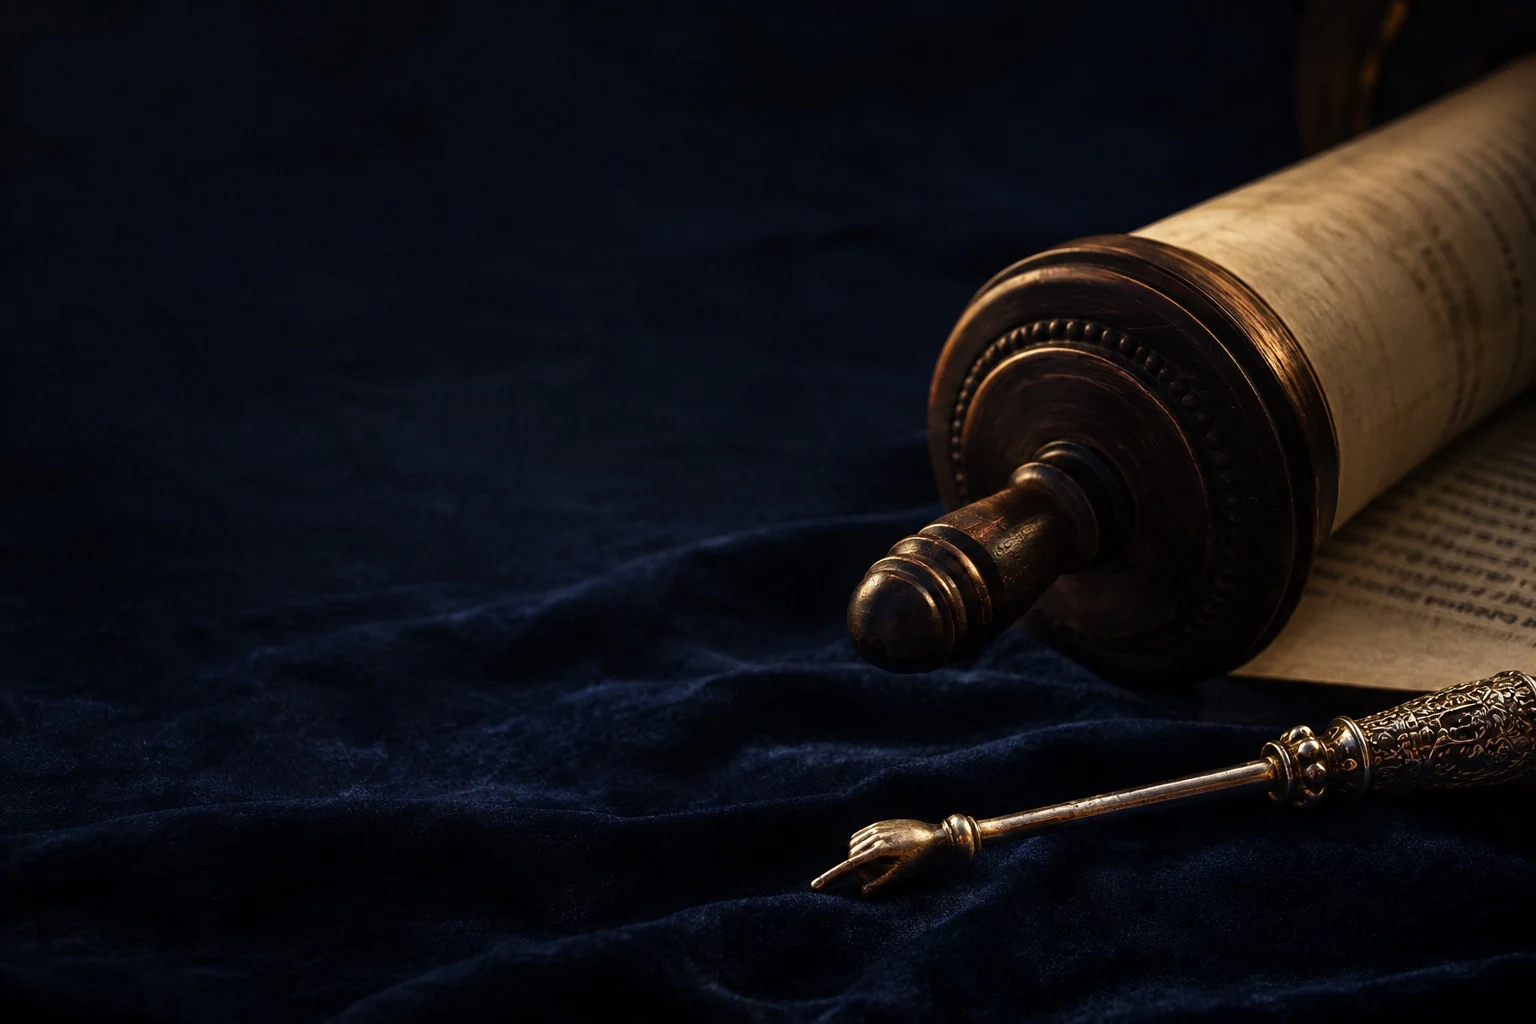
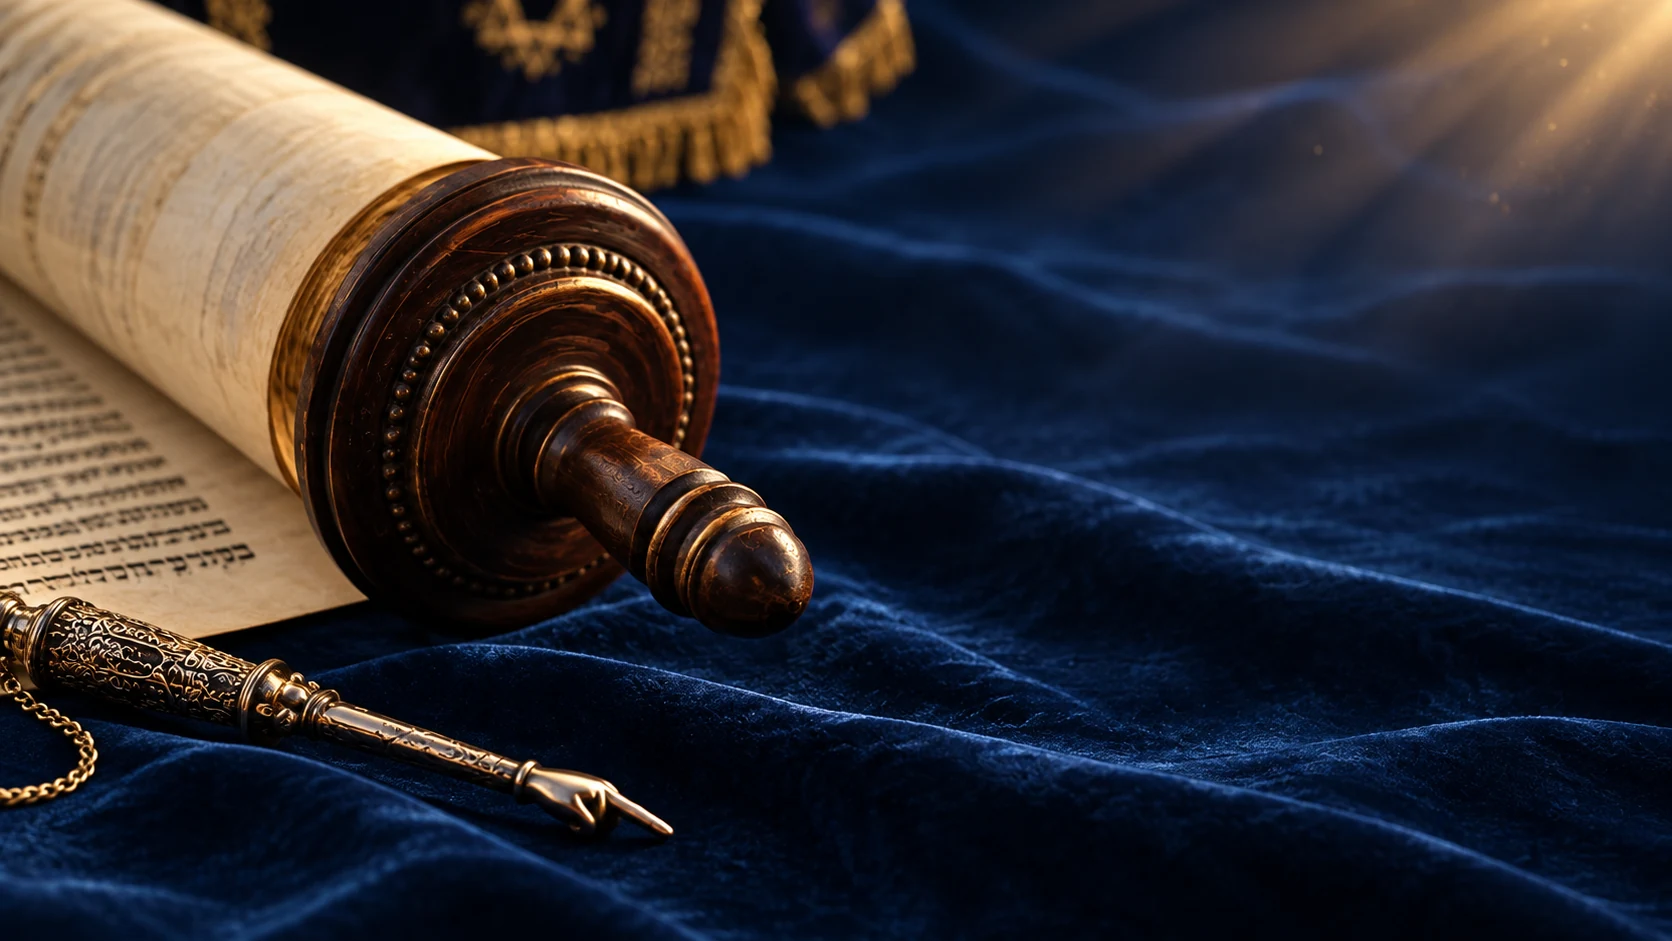
מפטיר יונה תמונה

diff --git a/client/src/pages/MaftirYona/components/MaftirYonaHero.tsx b/client/src/pages/MaftirYona/components/MaftirYonaHero.tsx
@@ -16,7 +16,7 @@ export default function MaftirYonaHero({ data, parts, onOfferClick }: Props) {
                     <h1 className={styles.publicTitle}><span className={styles.heroEyebrow}>הזכות של</span><span className={styles.goldTitle}>מפטיר יונה</span></h1>
                     <p className={styles.heroSegulah}>
                         <span className={styles.heroSegulahAttribution}>מובא בשם אדמו״ר הריי״צ:</span>
-                        <strong className={styles.heroSegulahMessage}>העלייה למפטיר יונה נותנת כוח לתשובה, והיא גם סגולה לעשירות</strong>
+                        <span className={styles.heroSegulahMessage}>העלייה למפטיר יונה נותנת כוח לתשובה,<br /><strong className={styles.heroSegulahEmphasis}>והיא גם סגולה לעשירות</strong></span>
                     </p>
                     <p className={styles.heroDescription}>השנה נפתחת הזכות לעלייה בבית חב״ד יפו.<br />הסכום שייאסף יוקדש לפעילות בית חב״ד.</p>
                 </div>
@@ -24,7 +24,7 @@ export default function MaftirYonaHero({ data, parts, onOfferClick }: Props) {
                     <div className={styles.archOuter}><div className={styles.archInner}>
                         <h2 className={styles.heroBidHeading}>ההצעה המובילה</h2>
                         <p className={styles.heroBidAmount}>{auctionMoney(data?.leadingBid?.amount ?? data?.openingPrice ?? 1800)}</p>
-                        <div className={styles.heroCountdown} aria-label="זמן שנותר לסיום" role="timer">
+                        <div className={styles.heroCountdown} dir="ltr" aria-label="זמן שנותר לסיום" role="timer">
                             {parts.map((part, index) => <div className={styles.heroTimeBox} key={index}><span className={styles.heroTimeNumber}>{data ? String(part).padStart(2, '0') : '–'}</span><span className={styles.heroTimeLabel}>{['ימים', 'שעות', 'דקות', 'שניות'][index]}</span></div>)}
                         </div>
                         <p className={styles.heroBidCount}>{data ? `${data.bids.length === 5 ? 'לפחות ' : ''}${data.bids.length} הצעות` : 'טוען הצעות…'}</p>

diff --git a/client/src/pages/MaftirYona/components/MaftirYonaHero.module.scss b/client/src/pages/MaftirYona/components/MaftirYonaHero.module.scss
@@ -7,14 +7,14 @@
     background-color: $brand-primary-deep;
 
     background-image:
-    linear-gradient(90deg,
-            rgba($brand-primary-deep, .90),
-            rgba($brand-primary-deep, .64) 50%,
-            rgba($brand-blue-ink-dark, .68)),
+        linear-gradient(90deg,
+            rgba($brand-primary-deep, .78),
+            rgba($brand-primary-deep, .48) 50%,
+            rgba($brand-blue-ink-dark, .56)),
         url("/maftir-yona/hero.webp");
 
     background-size: cover;
-background-position: 45% 58%;
+    background-position: 45% 58%;
     background-repeat: no-repeat;
 }
 
@@ -80,6 +80,11 @@ background-position: 45% 58%;
     font-size: clamp(1.25rem, 2vw, 1.6rem);
     font-weight: 500;
     line-height: 1.55;
+}
+
+.heroSegulahEmphasis {
+    font-size: 1.12em;
+    font-weight: 800;
 }
 
 .heroCta {
